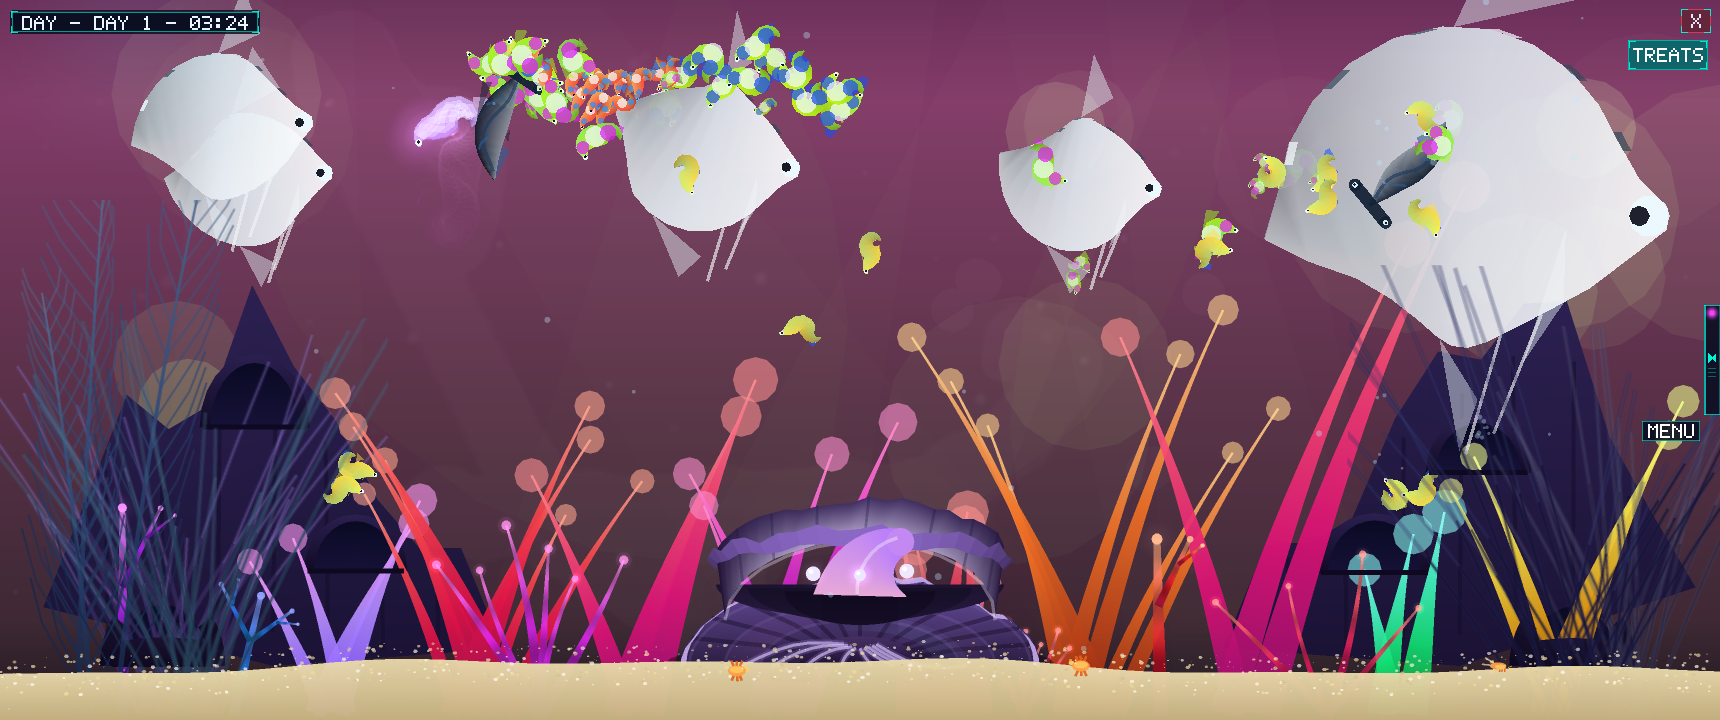
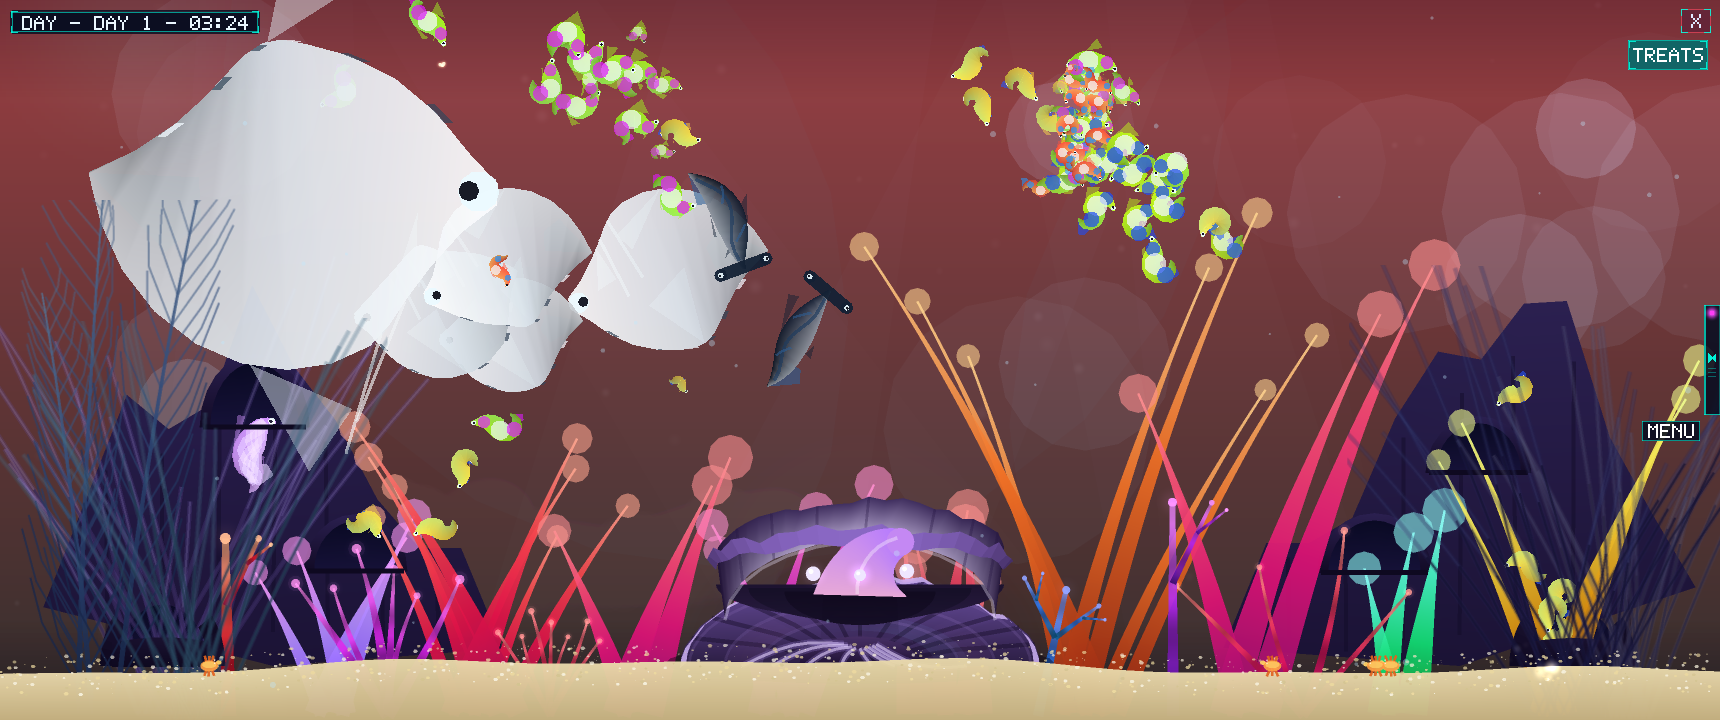
The sweep wanders: personal altitudes from the surface to the nest level (G69)
The pod glided a fixed rail — robotic. Each elder now draws a personal
altitude every 18-40 s: a third of the draws ride high under the
surface light (the y+100 top), the rest ease down the water column to
just above the nest level (the y-60 lilac-home depth), TitanAltMax
0.66H. Vertical drift is gently damped and an overshoot brake turns
the glide around before it can settle into the bottom band; members
draw independently so the pod breathes instead of marching in
lockstep. The 180-degree convoy arc keeps carrying the fake-Z body
motion and the hunger lunge keeps striking on both axes.

TestTitanSoftVerticalWander: a 120 s fed run spends real time in BOTH
bands with a worst straight-cruise vertical pace of ~22 px/s.
TestTitanFavorsUpperWaterAndHorizon retuned to the new contract:
dives toward the nest level happen, bottom-band living does not.

diff --git a/internal/sim/titan.go b/internal/sim/titan.go
@@ -162,9 +162,27 @@ func (f *Fish) steerTitan(dt, maxSp float64, w *World) contract.Vec2 {
 	// heading follows the velocity, so the fish always faces forward
 	des := v2(f.cruise*0.8*maxSp, sin(f.wanderA)*0.06*maxSp)
 	addForce(des, 0.7)
-	// level swimming: vertical drift is damped hard -- the body tracks the
-	// sand line and steep climbs or dives stay rare
-	addForce(v2(0, -f.Vel.Y*1.2), 1.2)
+	// G69: the sweep is a slow wandering glide, not a rail -- each elder
+	// draws a personal altitude every ~20-40 s, anywhere from the surface
+	// light down to just above the nest level, and eases toward it. The
+	// members draw independently (small phase drift), so the pod breathes
+	// instead of marching in lockstep.
+	f.altT -= dt
+	if f.altT <= 0 {
+		lo := (f.bodyLen*0.30+6)/w.H + 0.03
+		// biased to the ends: a third of the draws ride high under the
+		// surface light, the rest glide the broad lower water — the sweep
+		// visits both worlds instead of parking mid-tank
+		if f.rng.Float64() < 0.34 {
+			f.altY = lo + f.rng.Float64()*(0.30-lo)
+		} else {
+			f.altY = 0.30 + f.rng.Float64()*(contract.TitanAltMax-0.30)
+		}
+		f.altT = 18 + f.rng.Float64()*22
+	}
+	// level swimming stays gentle: vertical drift is softly damped -- the
+	// body may glide up or down along its sweep, but not ballistically
+	addForce(v2(0, -f.Vel.Y*0.75), 0.75)
 	// the pod favors the upper 80% -- the sand line is not their water
 	if f.Pos.Y > w.H*contract.TitanUpperBand {
 		addForce(v2(0, -maxSp), 1.1)
@@ -174,15 +192,16 @@ func (f *Fish) steerTitan(dt, maxSp float64, w *World) contract.Vec2 {
 	if f.Pos.Y < f.bodyLen*0.42+20 {
 		addForce(v2(0, maxSp), 1.1)
 	}
-	// the altitude pull always runs (G67): each down-curled arc dips the
-	// pod a body lower, and only a live pull walks it back up between turns
-	if off := w.H*0.36 - f.Pos.Y; off > 0 {
-		addForce(v2(0, off*0.25), 0.35)
+	// the altitude pull always runs (G69): toward the personal drawn
+	// altitude, both up and down, at a soft weight -- the dive toward the
+	// nest level and the climb to the surface light are the same gentle law
+	if off := w.H*f.altY - f.Pos.Y; absF(off) > 8 {
+		addForce(v2(0, clampF(off*0.22, -maxSp*0.4, maxSp*0.4)), 1.0)
 	}
-	// right after a turn the climb home is deliberate (G67): the settle
-	// window carries the pod back to cruise height before the next glass
-	if f.turning <= 0 && f.turnT > 0 && f.Pos.Y > w.H*0.36+40 {
-		addForce(v2(0, -maxSp), 0.8)
+	// overshoot brake: drifting well past the drawn altitude turns the
+	// glide around before it can settle into the bottom band
+	if f.Pos.Y > w.H*f.altY+80 {
+		addForce(v2(0, -maxSp*0.5), 0.9)
 	}
 	f.formationSteer(w, maxSp, addForce)
 	f.lungeSteer(w, dt, maxSp, addForce)

diff --git a/internal/sim/titan_test.go b/internal/sim/titan_test.go
@@ -398,3 +398,37 @@ func TestTitanConvoyTurn(t *testing.T) {
 		t.Fatalf("pod scattered %.0f px across the turn — the cluster must hold", spread)
 	}
 }
+
+// G69: the sweep is a wandering glide, not a rail — across a long run the
+// pod spends real time BOTH near the surface light and down near the nest
+// level, and the vertical pace stays gentle (no robotic hops).
+func TestTitanSoftVerticalWander(t *testing.T) {
+	w := titanWorld(t, 4)
+	w.spawnPod()
+	g := w.titanGiant()
+	const dt = 0.05
+	high, deep, worstVy := 0, 0, 0.0
+	for i := 0; i < 60*120; i++ { // 120 s
+		g.Satiety = 1 // fed: hunger lunges are a separate, welcome behavior
+		w.Update(dt, Input{})
+		if i%10 != 0 || g.turning > 0 {
+			continue // judge straight sweeps; the arc owns its own vertical
+		}
+		switch {
+		case g.Pos.Y < w.H*0.35:
+			high++
+		case g.Pos.Y > w.H*0.55:
+			deep++
+		}
+		if vy := mathAbs(g.Vel.Y); vy > worstVy {
+			worstVy = vy
+		}
+	}
+	t.Logf("wander: %d samples high, %d deep, worst |vy| %.1f", high, deep, worstVy)
+	if high < 40 || deep < 40 {
+		t.Fatalf("the sweep is a rail: %d high / %d deep samples in 120 s", high, deep)
+	}
+	if worstVy > 35 {
+		t.Fatalf("vertical pace %.1f px/s — not the gentle glide asked for", worstVy)
+	}
+}

diff --git a/internal/sim/lanes_test.go b/internal/sim/lanes_test.go
@@ -162,6 +162,9 @@ func TestTitanFavorsUpperWaterAndHorizon(t *testing.T) {
 	prevX, prevY := g.Pos.X, g.Pos.Y
 	for i := 0; i < 120*10; i++ { // 120 s, sampled every 0.1 s
 		w.Update(0.1, Input{})
+		if g.turning > 0 {
+			continue // G69: the arc owns its own vertical — judged separately
+		}
 		if g.Pos.Y > w.H*contract.TitanUpperBand {
 			deepSamples++
 		}
@@ -173,7 +176,9 @@ func TestTitanFavorsUpperWaterAndHorizon(t *testing.T) {
 		}
 		prevX, prevY = g.Pos.X, g.Pos.Y
 	}
-	if n := 120 * 10; deepSamples*100/n > 5 {
+	// G69: the pod WANDERS — dives down toward the nest level are part of
+	// the ask; parking in the bottom band is not
+	if n := 120 * 10; deepSamples*100/n > 30 {
 		t.Fatalf("the pod spent %d%% of its time in the bottom band", deepSamples*100/n)
 	}
 	if steep*100/(120*10) > 1 {

diff --git a/internal/sim/fish.go b/internal/sim/fish.go
@@ -93,6 +93,8 @@ type Fish struct {
 	turning    float64 // titan: seconds left of the curl's relaxed bend
 	turnH0     float64 // titan: heading at the start of the convoy U-turn
 	turnS      float64 // titan: arc sweep sign (+1 up-curl, -1 down-curl)
+	altT       float64 // titan: seconds until the next personal altitude draw
+	altY       float64 // titan: personal cruise altitude as a fraction of H
 	headingA   float64 // titan: sweep heading (0 = right, π = left)
 	slotBack   float64 // v1.1: formation distance behind the leader (px)
 	slotY      float64 // v1.1: formation vertical offset from the leader (px)

diff --git a/internal/contract/tuning.go b/internal/contract/tuning.go
@@ -198,6 +198,7 @@ const (
 	AvoidBigRadius  = 0.55 // × body length small fish keep clear of big bodies
 	TitanHeadFlat   = 0.25 // wander's vertical share — headings hug the sand line
 	TitanUpperBand  = 0.78 // the pod favors the upper 80% of the water column
+	TitanAltMax     = 0.66 // G69: deepest personal altitude — visiting the nest level, not living there
 	TitanCruiseDamp = 0.22 // pod cruise slows as members grow (×(1.12−d·sizeMul))
 	TitanBurstFloor = 0.70 // capture burst grows with size (×(floor+boost·sizeMul))
 	TitanBurstBoost = 0.30

diff --git a/docs/TRACEABILITY.md b/docs/TRACEABILITY.md
@@ -101,3 +101,4 @@ blocks the release.**
 | 83 | No part of the big bodies may ever leave the visible area | v1.1 G66 | the titan pod carried a v1.1 freeEdge exemption (visit-machine leftover: titans skipped the X bounds entirely) and the tall scalare frames clipped through the top edge; applyFrameBounds now contains every fish (freeEdge removed) with a body-scaled top margin (0.42×bodyLen+6, covering the trailing cone dive excursion) and a body-relative ceiling force; a body-scaled curl trigger (0.5×bodyLen+24 px from the glass, superseding TitanEdgeTurn 0.12W) gives the 180° arc room to turn fully inside; clampBodyInFrame runs as the last spine pass — a per-point canvas clamp whose rare corrections are a few pixels of glass contact, never a teleport; TestTitanBodiesStayInFrame: 120 s of sweeps with corner startle bolts, every spine point of every titan and shark inside the canvas (worst margin 3.0 px); spawnPod lays its chain inside the canvas; TestTitanSpineNeverFolds/TestTimeLapse judge open-water bends only — a glass graze is pinned contact, not a whip |
 | 84 | The big whites still turned like clock hands: with the eye parked at x+20 and the tail at x-20, the tail must stay on y=0 while the eye holds x (no pivot spin); the pod should glide slowly to x+100 (the right corner) and wheel a graceful 180° in the fake Z, arriving clustered at x-100 | v1.1 G67 | root cause was arithmetic: the arc pace (0.8×maxSp) times the window (2.6 s) laid a 46 px path for a 448 px body — a 15 px radius, the head effectively pivoting in place. The turn is now a true convoy arc: TitanTurnWindow 8.0 s, radius TitanTurnRadiusFrac 0.25×bodyLen, pace v = πR/window (never below 0.9× cruise) — the head travels a quarter tank through the half circle; the LEADER owns the clock (titanStartConvoyTurn flips all five at once, one clock, five parallel arcs, the cluster holds); the arc curls UP against the surface light by default (radius shrinks to the room, down-curl only when the top is closed) and rides the fake Z (the depth lane lifts 0.30→0.52→0.30 mid-arc); the spine axis hangs off the sweep heading (a startle-bent velocity can never tear the chain), the bend relaxes to 0.18 mid-arc and retightens as it closes, and the chain settles onto the new line through the arc itself (eased k, finished when the arc ends); straight cruise: always-on altitude pull + post-turn climb home keep the pod in the upper water, tail wave halved for big bodies (the trailing tip shimmers, it does not wander off the line); burst chases turn the head at 6.5 rad/s and shave both velocity and acceleration off the face blind side. TestTitanConvoyTurn: on the first arc frame all five turn counters are armed (simultaneity), windowed net motion never stalls (no pivot), the pod arrives within 700 px of its leader; fold judges measure true self-overlap with glass-contact exemption; titan/large-body test worlds run at real 1720×720 proportions (an 800 px tank has no legal geometry for a 448 px body) |
 | 85 | Flakes must never sink below the sand boundary (treats stay free); uneaten sinking flakes should REST on top of the sand so diving fish make an eye-catching interaction. And the sand must not read as a ruler line — gentle dunes and channels for realism | v1.1 G68 | one shared deterministic relief curve (contract/sand.go SandRelief: three-sine swell ~±11 px, SandSurfaceY = 0.925H + relief) is used by BOTH sides, so simulation and pixels agree on where the surface is; tickFood now settles each flake exactly on SandSurfaceY(x) − 1.5 px with velocity zeroed (at rest it holds its spot — no drift, no burial; live treats untouched and free); DrawSandBed replaced its flat top quad with a 24 px relief-following strip, speckle rows ride the same curve; TestFlakesRestOnSand (three flakes land on the dunes, never below the surface, hold still for 3 s after landing) + TestSandReliefIsNotFlat (relief spans ≥10 px over the tank width); probe 10-critters.png band: duned surface, no ruler line |
+| 86 | The big whites move as one cluster: sweep left→right, a graceful 180° in the imaginary Z axis with gentle slow body motion (2D tank — Z is simulated). While gliding x−100→x+100 they should sometimes ride y+100 (the very top) and sometimes y−60 (down to the lilac home level) so they never feel robotic; sometimes they strike for food progressing on both x and y | v1.1 G69 | the sweep is no longer a rail: each elder draws a personal altitude every 18–40 s — a third of the draws ride high under the surface light, the rest glide the broad water down to TitanAltMax 0.66H (just above the nest level) — and eases toward it at a soft weight; vertical drift is gently damped (0.75) and an overshoot brake turns the glide around before it can settle into the bottom band; members draw independently so the pod breathes instead of marching in lockstep; the 180° convoy arc (G67) already carries the fake-Z body motion and the hunger lunge already strikes on both axes (G41, kept); TestTitanSoftVerticalWander — 120 s fed run: real time spent BOTH above 0.35H and below 0.55H, worst straight-cruise vertical pace 21.8 px/s (gentle); TestTitanFavorsUpperWaterAndHorizon retuned to the new contract (dives happen, bottom-band living does not: ≤30%, arc frames excluded) |
